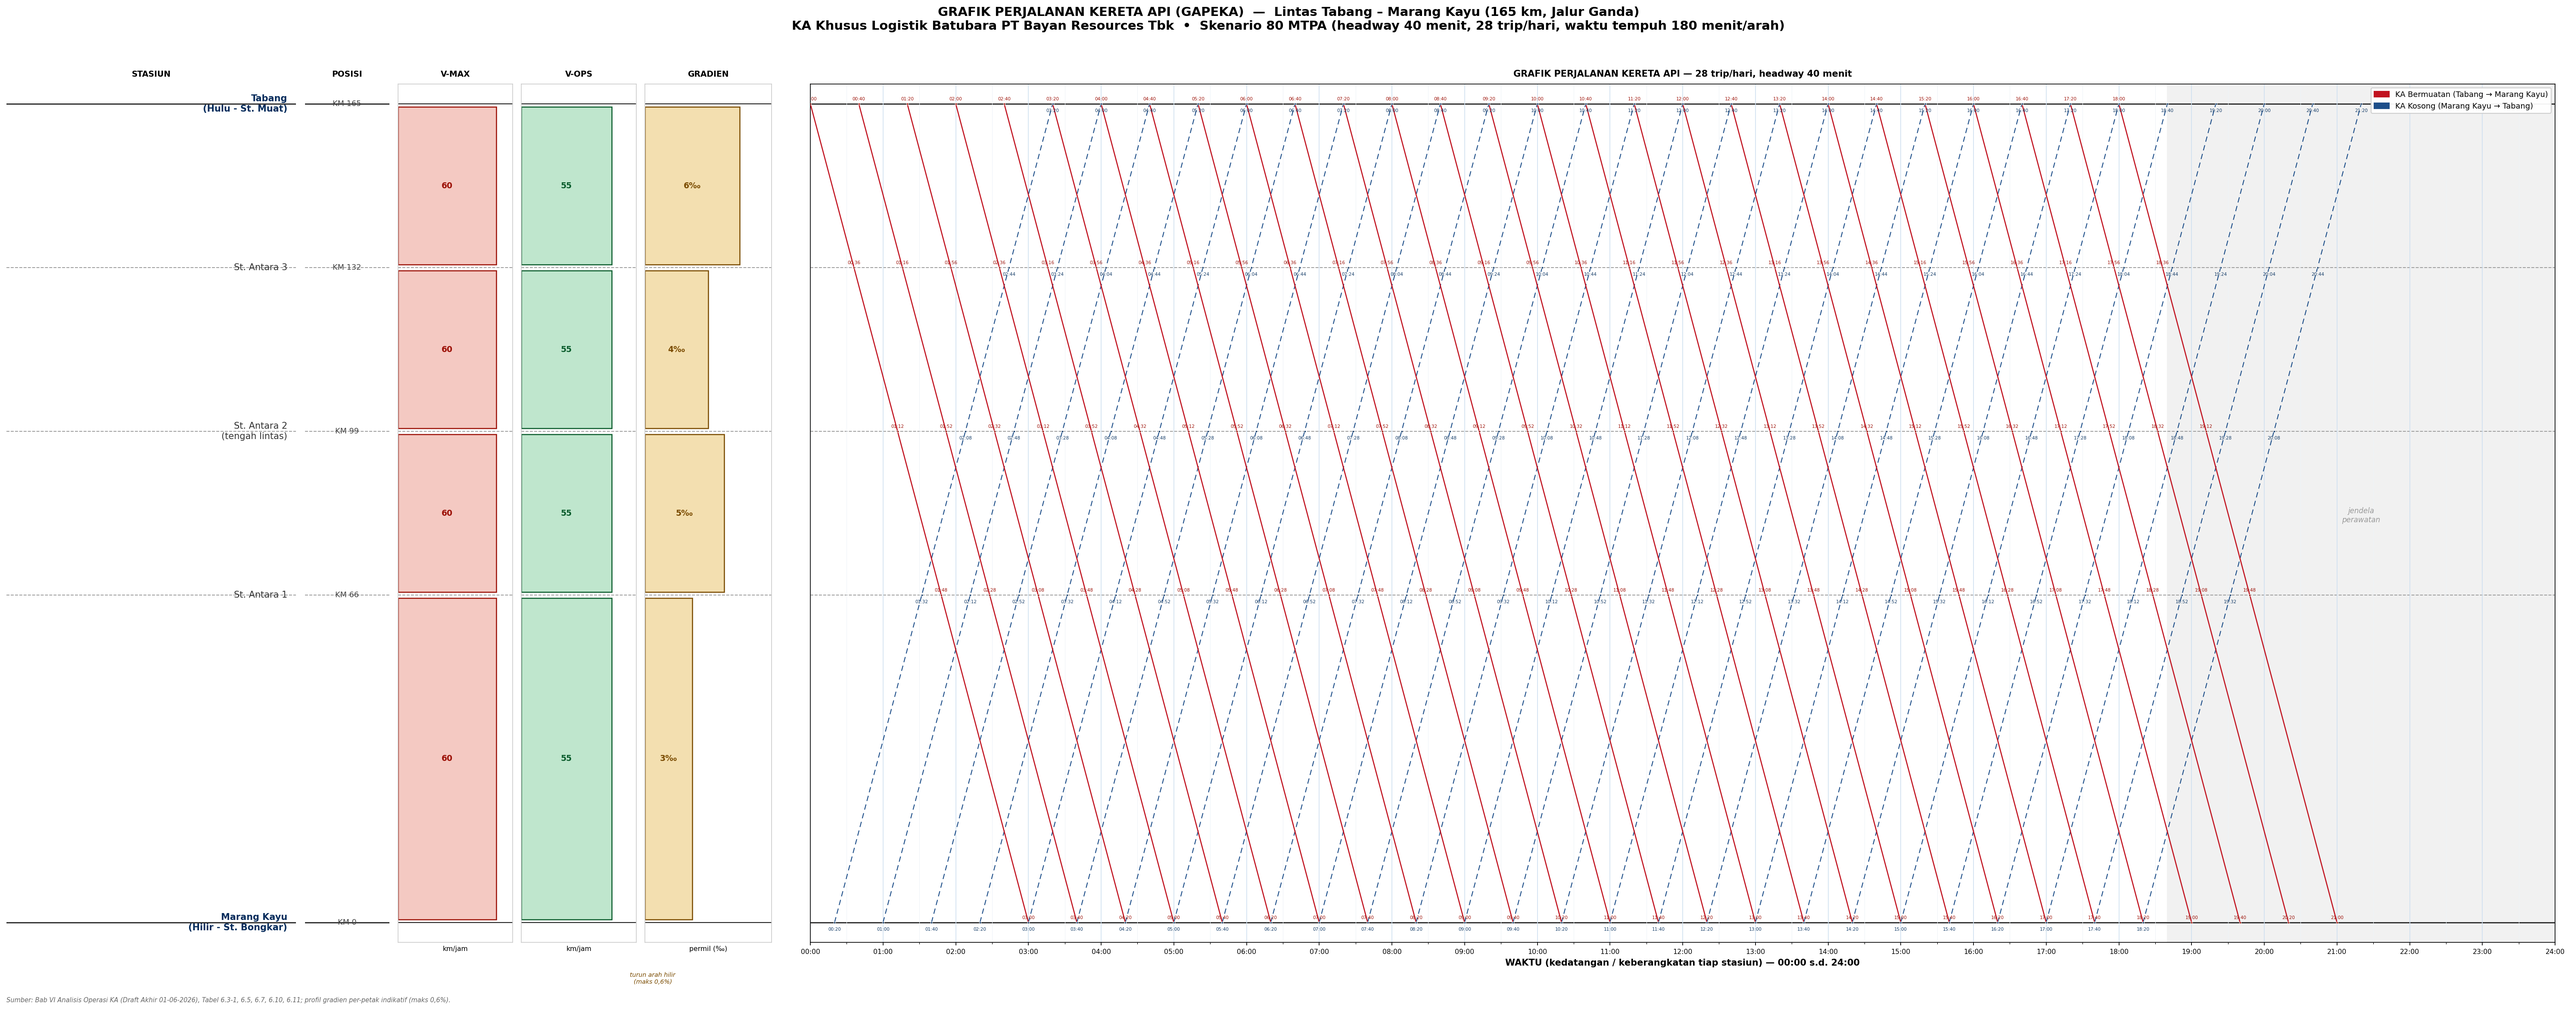
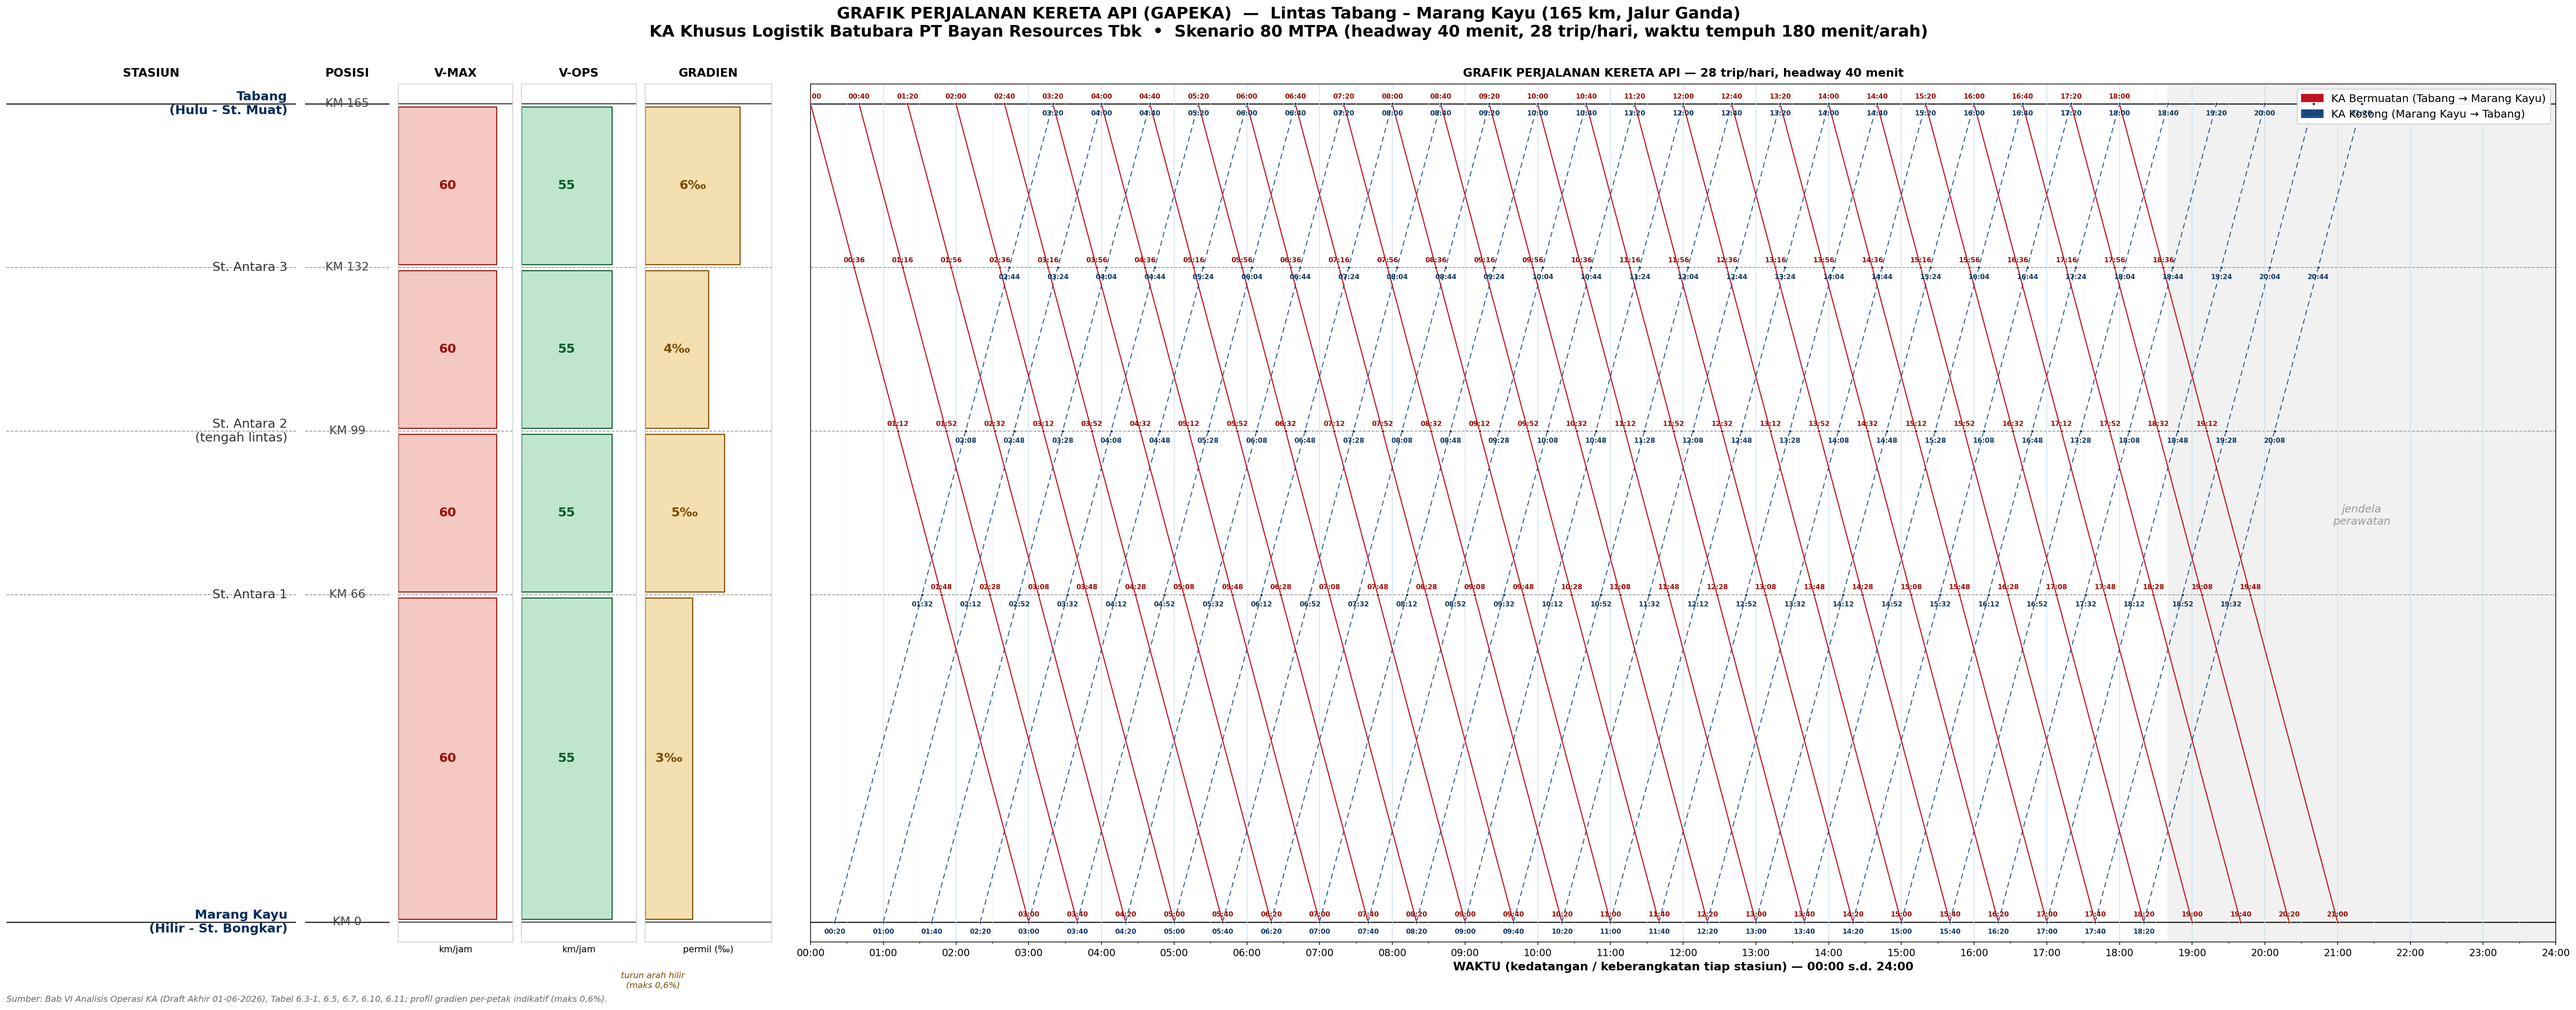
Enlarge side-panel labels and per-station time annotations on 80 MTPA GAPEKA

diff --git a/outputs/make_gapeka.py b/outputs/make_gapeka.py
@@ -89,16 +89,16 @@ def build(scn, annotate_all=False, dpi=150, figsize=(22, 11.5)):
     # Kolom 1: nama
     ax_name.set_xlim(0, 1); station_lines(ax_name)
     for name, km, typ in STATIONS:
-        ax_name.text(0.97, km, name, ha="right", va="center", fontsize=10,
+        ax_name.text(0.97, km, name, ha="right", va="center", fontsize=14,
                      fontweight=("bold" if typ == "terminal" else "normal"),
                      color=("#062c5c" if typ == "terminal" else "#333"))
-    ax_name.set_title("STASIUN", fontsize=9, fontweight="bold", pad=8)
+    ax_name.set_title("STASIUN", fontsize=13, fontweight="bold", pad=8)
 
     # Kolom 2: KM
     ax_km.set_xlim(0, 1); station_lines(ax_km)
     for name, km, typ in STATIONS:
-        ax_km.text(0.5, km, f"KM {km:g}", ha="center", va="center", fontsize=8.5, color="#444")
-    ax_km.set_title("POSISI", fontsize=9, fontweight="bold", pad=8)
+        ax_km.text(0.5, km, f"KM {km:g}", ha="center", va="center", fontsize=13, color="#444")
+    ax_km.set_title("POSISI", fontsize=13, fontweight="bold", pad=8)
 
     for ax in (ax_name, ax_km):
         ax.set_xticks([]); ax.set_yticks([])
@@ -110,9 +110,9 @@ def build(scn, annotate_all=False, dpi=150, figsize=(22, 11.5)):
             ax.barh((kt + kb) / 2, val, height=abs(kt - kb) - 1.2,
                     color=fill, edgecolor=color, lw=1.2, zorder=2)
             ax.text(val * 0.5, (kt + kb) / 2, fmt.format(val), ha="center", va="center",
-                    fontsize=9, fontweight="bold", color=color, zorder=3)
-        ax.set_title(title, fontsize=9, fontweight="bold", pad=8)
-        ax.set_xlabel(unit, fontsize=7.5)
+                    fontsize=14, fontweight="bold", color=color, zorder=3)
+        ax.set_title(title, fontsize=13, fontweight="bold", pad=8)
+        ax.set_xlabel(unit, fontsize=10)
         ax.set_xticks([]); ax.set_yticks([])
         for sp in ax.spines.values(): sp.set_color("#ccc")
 
@@ -121,32 +121,32 @@ def build(scn, annotate_all=False, dpi=150, figsize=(22, 11.5)):
     profile(ax_grad, [s[5] for s in SEGMENTS], 8, "#7a4b00", "#f3dfb0", "permil (‰)",
             "GRADIEN", fmt="{:.0f}‰")
     ax_grad.text(0.5, -10, "turun arah hilir\n(maks 0,6%)", ha="center", va="top",
-                 fontsize=6.8, style="italic", color="#7a4b00")
+                 fontsize=9.5, style="italic", color="#7a4b00")
 
     # PANEL UTAMA
     station_lines(ax_main)
     ax_main.set_xlim(T_START, T_END)
     xt = list(range(0, T_END + 1, 60))
     ax_main.set_xticks(xt)
-    ax_main.set_xticklabels([hhmm(t) for t in xt], fontsize=7.5, rotation=0)
+    ax_main.set_xticklabels([hhmm(t) for t in xt], fontsize=11, rotation=0)
     ax_main.xaxis.set_minor_locator(MultipleLocator(30))
     ax_main.grid(which="major", axis="x", color="#cfe0f0", lw=0.8, zorder=0)
     ax_main.grid(which="minor", axis="x", color="#eef3f8", lw=0.5, zorder=0)
     ax_main.set_xlabel("WAKTU (kedatangan / keberangkatan tiap stasiun) — 00:00 s.d. 24:00",
-                       fontsize=10, fontweight="bold")
+                       fontsize=13, fontweight="bold")
     ax_main.set_title(f"GRAFIK PERJALANAN KERETA API — {freq} trip/hari, headway {headway} menit",
-                      fontsize=10, fontweight="bold", pad=8)
+                      fontsize=13, fontweight="bold", pad=8)
     ax_main.tick_params(axis="y", left=False, labelleft=False)
 
     lw_l, lw_e = (1.2, 1.0) if annotate_all else (1.7, 1.3)
-    lab_fs = 5.0 if annotate_all else 7.6
+    lab_fs = 7.5 if annotate_all else 7.6
 
     def node_labels(pts, color, dy):
         for (t, km) in pts:
-            ax_main.plot(t, km, "o", ms=2.2, color=color, mec="white", mew=0.4, zorder=6)
+            ax_main.plot(t, km, "o", ms=3.2, color=color, mec="white", mew=0.5, zorder=6)
             ax_main.annotate(hhmm(t), (t, km), textcoords="offset points",
                              xytext=(0, dy), ha="center",
-                             fontsize=lab_fs, color=color, zorder=7,
+                             fontsize=lab_fs, color=color, zorder=7, fontweight="bold",
                              rotation=0, clip_on=True)
 
     # KA bermuatan (Tabang -> MK), berangkat tiap headway sejumlah frekuensi
@@ -155,14 +155,14 @@ def build(scn, annotate_all=False, dpi=150, figsize=(22, 11.5)):
         ax_main.plot([p[0] for p in pts], [p[1] for p in pts],
                      color="#c1121f", lw=lw_l, solid_capstyle="round", zorder=4)
         if annotate_all:
-            node_labels(pts, "#9c1006", dy=4)
+            node_labels(pts, "#9c1006", dy=6)
     # KA kosong (MK -> Tabang)
     for i in range(freq):
         pts = path_empty(i * headway + headway / 2)
         ax_main.plot([p[0] for p in pts], [p[1] for p in pts],
                      color="#1d4e89", lw=lw_e, ls=(0, (6, 4)), zorder=3)
         if annotate_all:
-            node_labels(pts, "#123a66", dy=-9)
+            node_labels(pts, "#123a66", dy=-13)
 
     if not annotate_all:
         # KA referensi (Tabang dep 06:00) + anotasi waktu tiap stasiun
@@ -180,20 +180,20 @@ def build(scn, annotate_all=False, dpi=150, figsize=(22, 11.5)):
     if op_end < T_END:
         ax_main.axvspan(op_end, T_END, color="#f1f1f1", zorder=0)
         ax_main.text((op_end + T_END) / 2, 82, "jendela\nperawatan",
-                     ha="center", va="center", fontsize=8, color="#999", style="italic")
+                     ha="center", va="center", fontsize=12, color="#999", style="italic")
 
     leg = [mpatches.Patch(color="#c1121f", label="KA Bermuatan (Tabang → Marang Kayu)"),
            mpatches.Patch(color="#1d4e89", label="KA Kosong (Marang Kayu → Tabang)")]
-    ax_main.legend(handles=leg, loc="upper right", fontsize=8.5, framealpha=0.95)
+    ax_main.legend(handles=leg, loc="upper right", fontsize=12, framealpha=0.95)
 
     fig.suptitle(
         f"GRAFIK PERJALANAN KERETA API (GAPEKA)  —  Lintas Tabang – Marang Kayu (165 km, Jalur Ganda)\n"
         f"KA Khusus Logistik Batubara PT Bayan Resources Tbk  •  Skenario {label} "
         f"(headway {headway} menit, {freq} trip/hari, waktu tempuh 180 menit/arah)",
-        fontsize=14, fontweight="bold", y=0.975)
+        fontsize=18, fontweight="bold", y=0.975)
     fig.text(0.004, 0.012,
              "Sumber: Bab VI Analisis Operasi KA (Draft Akhir 01-06-2026), Tabel 6.3-1, 6.5, 6.7, 6.10, 6.11; profil gradien per-petak indikatif (maks 0,6%).",
-             fontsize=7, style="italic", color="#666")
+             fontsize=9.5, style="italic", color="#666")
 
     fig.savefig(f"outputs/{fname}", dpi=150, facecolor="white", bbox_inches="tight")
     plt.close(fig)
